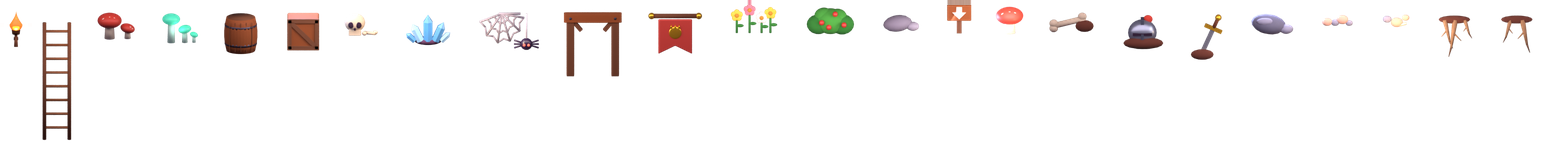
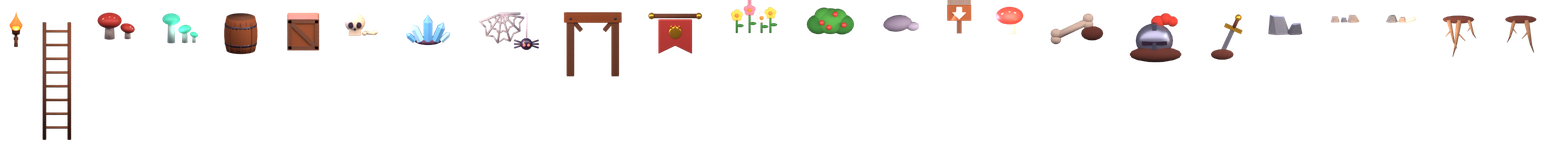
Hats #96: grond ronde 2 na Daan #133 (hoekige grijze stenen, helm groot en vaak, geen ritme), toetsen 8x0 FOUT
Claude-Session: https://claude.ai/code/session_01RMWUyhS49fvzT4mgSGYqV4

diff --git a/producten/steam-hol/modellen/versiering.py b/producten/steam-hol/modellen/versiering.py
@@ -33,7 +33,8 @@ WAND_HANG = ("wortels_a", "wortels_b")
 GANG_HOOG = 16 * SPX * 0.966 / 0.966  # 16 spelpixels gang (vloer z 0 tot plafond)
 
 _M = {}
-SCHAAL = {"bot": 1.15, "helm": 1.15, "zwaard": 1.2, "steen_diep": 1.1, "ton": 0.78, "krat": 0.82, "kristal": 0.75, "schedel": 0.85}  # kristal en schedel: frisse kijker 14 nov, te groot en te fel
+SCHAAL = {"bot": 1.4, "helm": 1.5, "zwaard": 1.2, "steen_diep": 1.1,  # Daan #133: helm groter dan het bot (M2), bot groter (K2)
+           "ton": 0.78, "krat": 0.82, "kristal": 0.75, "schedel": 0.85}  # kristal en schedel: frisse kijker 14 nov, te groot en te fel
 
 
 def m(naam, kleur, **kw):
@@ -93,6 +94,30 @@ def kluit(ouder, naam, loc, maat):
     return k
 
 
+def brok(ouder, naam, loc, b, h, d, mat, zaad=0, scheef=0.0):
+    """Hoekige steen met een platte onderkant (Daan #133 M1: de ronde paarse stenen lazen als naaktslakken).
+    Onder een onregelmatige zeshoek, boven een kleinere vijfhoek die iets opzij staat; daarover het omhulsel, vlak
+    gearceerd, zodat je op 120 px twee of drie vlakken ziet en geen glanzende bult."""
+    import bmesh
+    rnd = [((zaad * 7919 + i * 104729) % 1000) / 1000.0 for i in range(24)]
+    pts = []
+    for i in range(6):
+        a = math.tau * (i + 0.35 * rnd[i]) / 6
+        pts.append((math.cos(a) * b * (0.8 + 0.25 * rnd[i + 6]), math.sin(a) * d * (0.8 + 0.25 * rnd[i + 12]), 0.0))
+    for i in range(5):
+        a = math.tau * (i + 0.5 * rnd[i + 18]) / 5 + 0.4
+        pts.append((math.cos(a) * b * 0.55 + scheef * b, math.sin(a) * d * 0.55, h * (0.85 + 0.15 * rnd[i + 1])))
+    me = bpy.data.meshes.new(naam)
+    bm = bmesh.new()
+    for q in pts:
+        bm.verts.new(q)
+    bmesh.ops.convex_hull(bm, input=bm.verts)
+    bm.to_mesh(me); bm.free()
+    o = bpy.data.objects.new(naam, me); bpy.context.scene.collection.objects.link(o)
+    o.location = loc
+    return _af(o, mat, ouder, naam, glad=False)
+
+
 def wortel(ouder, naam, x, z, lengte, dik, buig, mat, tip):
     """Wortel die van boven schuin naar beneden hangt: dik bij de aarde, spits aan de punt (de punt donkerder).
     Let op: bij een kegel is radius1 de onderkant (-z), dus de dunne punt."""
@@ -115,7 +140,7 @@ def wand(ouder, p, naam, s):
     bot = m("bot", "c8b8a2", rough=0.7)
     if naam == "bot":
         # dijbeen schuin in de aarde, het rechtereind in een kluit
-        a = math.radians(-14)
+        a = math.radians(-26)   # Daan #133 K2: schuiner, leest meer als bot dan als streepje
         cil(ouder, p + "_schacht", (0, 0, 1.6 * s), 0.62 * s, 6.4 * s, bot, rot=(0, math.radians(90) + a, 0), verts=14)
         for zx in (-1, 1):
             for dz in (-0.55, 0.55):
@@ -130,7 +155,10 @@ def wand(ouder, p, naam, s):
         blok(ouder, p + "_kam", (0, -0.2 * s, 5.0 * s), (0.7 * s, 2.6 * s, 2.2 * s), ijzer_d, rond=0.25 * s, rot=(0, 0, 0))
         blok(ouder, p + "_spleet", (0, -2.05 * s, 3.0 * s), (4.2 * s, 0.4 * s, 0.55 * s), gat, rond=0.15 * s)
         blok(ouder, p + "_neus", (0, -2.15 * s, 2.3 * s), (0.6 * s, 0.4 * s, 1.6 * s), ijzer_d, rond=0.15 * s)
-        bol(ouder, p + "_pluim", (1.2 * s, 0.4 * s, 5.8 * s), (1.0 * s, 0.7 * s, 0.9 * s), m("pluim", "c23b2e", rough=0.8), 12)
+        # Daan #133 M2: de pluim is wat de helm op 120 px herkenbaar maakt; groter, waaiert naar achter
+        pl = m("pluim", "d8402f", rough=0.8)
+        for i, (dx, dz, r) in enumerate(((0.6, 6.0, 1.15), (1.9, 6.5, 1.05), (3.0, 6.1, 0.9))):
+            bol(ouder, p + f"_pluim{i}", (dx * s, 0.4 * s, dz * s), (r * s, 0.8 * s, r * 0.95 * s), pl, 12)
         # onderkant in de aarde: een brede lage kluit voor de kap
         kluit(ouder, p + "_kluit", (0.2 * s, -1.4 * s, 0.9 * s), (4.4 * s, 1.4 * s, 1.3 * s))
     elif naam == "zwaard":
@@ -146,22 +174,22 @@ def wand(ouder, p, naam, s):
         x, z = op(9.0 * s); bol(ouder, p + "_knop", (x, -0.1 * s, z + 0.4 * s), (0.65 * s,) * 3, goud, 12)
         kluit(ouder, p + "_kluit", (0.3 * s, -0.6 * s, 0.8 * s), (2.4 * s, 1.0 * s, 1.1 * s))
     elif naam == "steen_diep":
-        k = m("steen_k", "5c5a6e", rough=0.75, spec=0.2)
-        kl = m("steen_kl", "7f7c92", rough=0.7, spec=0.25)
-        o = bol(ouder, p + "_groot", (-0.6 * s, 0, 2.2 * s), (4.0 * s, 2.0 * s, 2.3 * s), k, 9)
-        o.rotation_euler = (0, math.radians(10), 0)
-        bol(ouder, p + "_licht", (-1.4 * s, -1.3 * s, 3.1 * s), (2.0 * s, 0.8 * s, 0.9 * s), kl, 8)
-        bol(ouder, p + "_klein", (3.4 * s, -0.2 * s, 1.1 * s), (1.6 * s, 1.2 * s, 1.1 * s), kl, 8)
+        # Daan #133 M1: twee ongelijke hoekige grijze stenen met een platte onderkant, niet paars, geen glans
+        k = m("steen_k", "4a4b52", rough=0.85, spec=0.15)
+        kl = m("steen_kl", "686a72", rough=0.8, spec=0.15)
+        brok(ouder, p + "_groot", (-0.9 * s, 0, 0), 3.0 * s, 4.4 * s, 1.6 * s, kl, zaad=3, scheef=-0.15)
+        brok(ouder, p + "_klein", (2.6 * s, -0.3 * s, 0), 1.9 * s, 2.5 * s, 1.2 * s, k, zaad=11, scheef=0.2)
     elif naam in ("kiezels_a", "kiezels_b"):
-        warm = m("kiezel_w", "c69383", rough=0.65, spec=0.25)
-        koel = m("kiezel_k", "7f7c92", rough=0.65, spec=0.25)
-        rij = ([(-2.6, 1.0, 1.0, warm), (-0.6, 0.8, 0.8, koel), (1.2, 1.6, 1.15, warm), (2.9, 0.7, 0.7, koel)]
+        # Daan #133 K1: grijzer en hoekig, zodat ze niet als kruimels of maden lezen
+        warm = m("kiezel_w", "7c7068", rough=0.8, spec=0.15)
+        koel = m("kiezel_k", "585a61", rough=0.8, spec=0.15)
+        rij = ([(-2.6, 1.2, warm), (-0.4, 0.9, koel), (1.8, 1.5, warm)]
                if naam == "kiezels_a" else
-               [(-2.2, 1.7, 0.85, koel), (0.2, 0.9, 1.2, warm), (2.4, 2.1, 0.75, warm)])
-        for i, (dx, dz, r, mt) in enumerate(rij):
-            bol(ouder, p + f"_k{i}", (dx * s, -0.3 * s, dz * s), (r * 1.3 * s, r * 0.7 * s, r * s), mt, 10)
+               [(-2.0, 1.4, koel), (0.6, 1.0, warm)])
+        for i, (dx, r, mt) in enumerate(rij):
+            brok(ouder, p + f"_k{i}", (dx * s, -0.3 * s, 0), r * 1.1 * s, r * 1.2 * s, r * 0.8 * s, mt, zaad=i + 5 * len(rij))
         if naam == "kiezels_b":
-            cil(ouder, p + "_botje", (1.6 * s, -0.4 * s, 0.4 * s), 0.35 * s, 2.0 * s, bot, rot=(0, math.radians(75), 0), verts=10)
+            cil(ouder, p + "_botje", (2.6 * s, -0.4 * s, 0.5 * s), 0.4 * s, 2.4 * s, bot, rot=(0, math.radians(70), 0), verts=10)
     elif naam in ("wortels_a", "wortels_b"):
         wm = m("wortel", "9a7352", rough=0.85)
         tip = m("wortel_tip", "5e4434", rough=0.9)

diff --git a/producten/steam-hol/bewijs-mooi/LEESMIJ.md b/producten/steam-hol/bewijs-mooi/LEESMIJ.md
@@ -44,3 +44,13 @@ Gemini vond het speelscherm "too basic" en "flat" (blinde test 25 nov 16:46). Wa
 - Kunst: `modellen/versiering.py` (bot, helm, zwaard, steen_diep, kiezels_a/b, wortels_a/b, Blender uit code, geen AI, geen gekocht pakket), `modellen/hol.py` (kiezels uit de herhaaltegel). Blad deco en hol_proef opnieuw gerenderd met de pijplijn (bpy 5.2.4), `bron` klopt, dus de workflow rendert niet dubbel.
 - Code: `godot/hol/hol_vast.gd`, `grond()` en `grond_dingen()` (alleen in het vaste beeld, dus geen extra CPU per beeld). Zonder 3D-aarde verandert er niets.
 - Toetsen 8 x 0 FOUT (Godot 4.3 Linux).
+
+## Grond, ronde 2 na keuring Daan #133 (Mila, 26 nov, issue #96)
+**Wat er voor de speler veranderde:** de stenen in de diepe laag lezen nu als stenen, de helm van een gevallen held zie je meteen, en de wortels en kiezels staan niet meer op een vaste afstand.
+- **M1:** de grote ronde paarse stenen (lazen als naaktslakken) zijn nu twee ongelijke hoekige grijze stenen met een platte onderkant, vlak gearceerd (2 of 3 vlakken), geen glans. Nieuwe `brok()` in `modellen/versiering.py`.
+- **M2:** het eerste ding in de aarde is altijd een helm, en de helm komt twee keer zo vaak als de rest. Helm groter (schaal 1,15 naar 1,5, op 120 px ±18 x 16 spelpixels, bot ±18 x 13) met een pluim van drie bollen in fel rood.
+- **M3:** elk soort ding kiest na elke plek zelf de afstand tot de volgende (dingen 3 tot 8 kolommen, wortels en kiezels 2 tot 7, toeval op een vaste hash per kolom), en 1 op 4 wortels en 1 op 3 kiezelgroepjes vallen weg.
+- **K1:** kiezels grijzer en hoekig (zelfde `brok()`). **K2:** bot groter (1,4) en schuiner (26 graden). **K3:** 1 op 3 diepe stenen staat hoger en steekt over de grens tussen de lagen.
+- Beelden (echt spel, demo op 57 s, 1920 x 120, Linux): boven ronde 1, onder ronde 2: `grond2-voor-en-na-ware-grootte.png`, links op 2x `grond2-voor-en-na-links-2x.png`, alleen na `grond2-na-57s-ware-grootte.png`. Zelf gekeken op 100% en 2x.
+- Toetsen 8 x 0 FOUT (Godot 4.3 Linux). Blad `deco` opnieuw gerenderd (bpy 5.2.4).
+- **Nog niet:** Iris (26 nov 04:50) wil de lagen ook in de achterwand van de gegraven gang; dat is de volgende stap.
